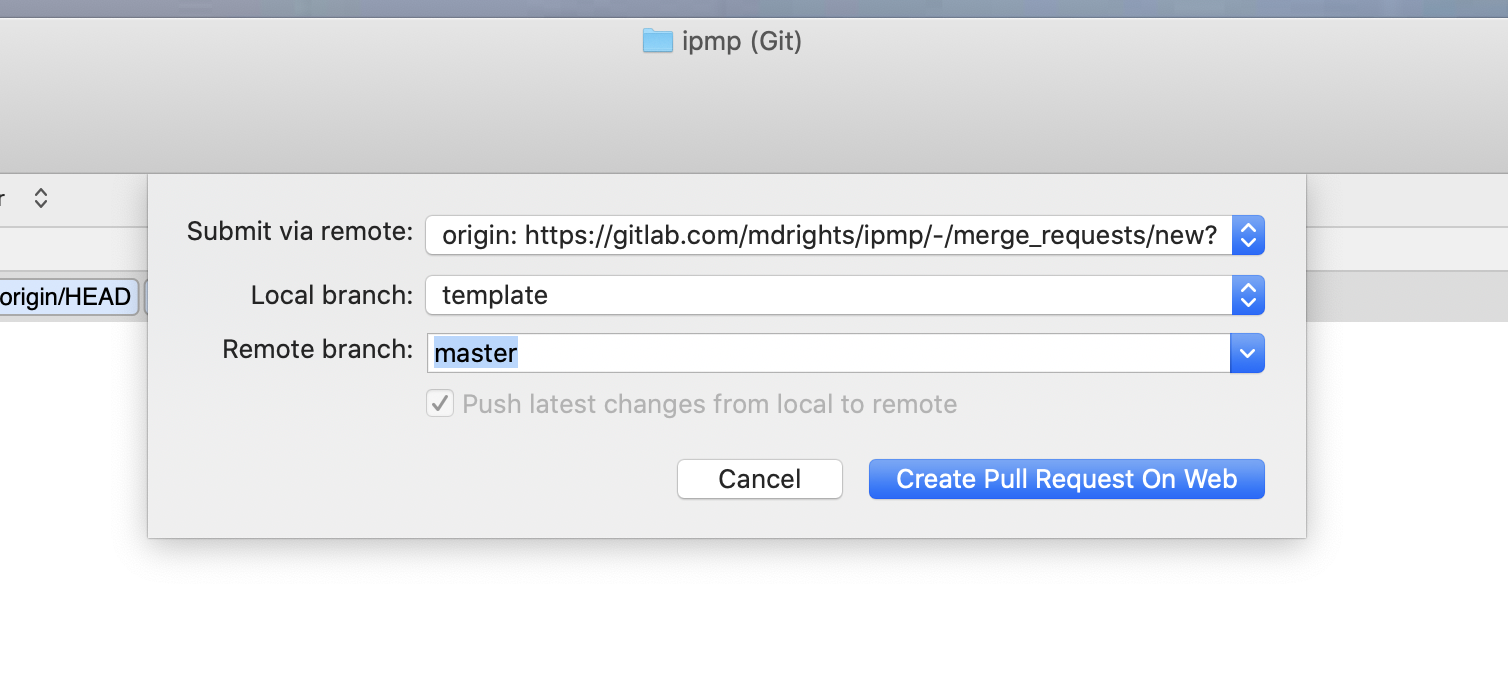
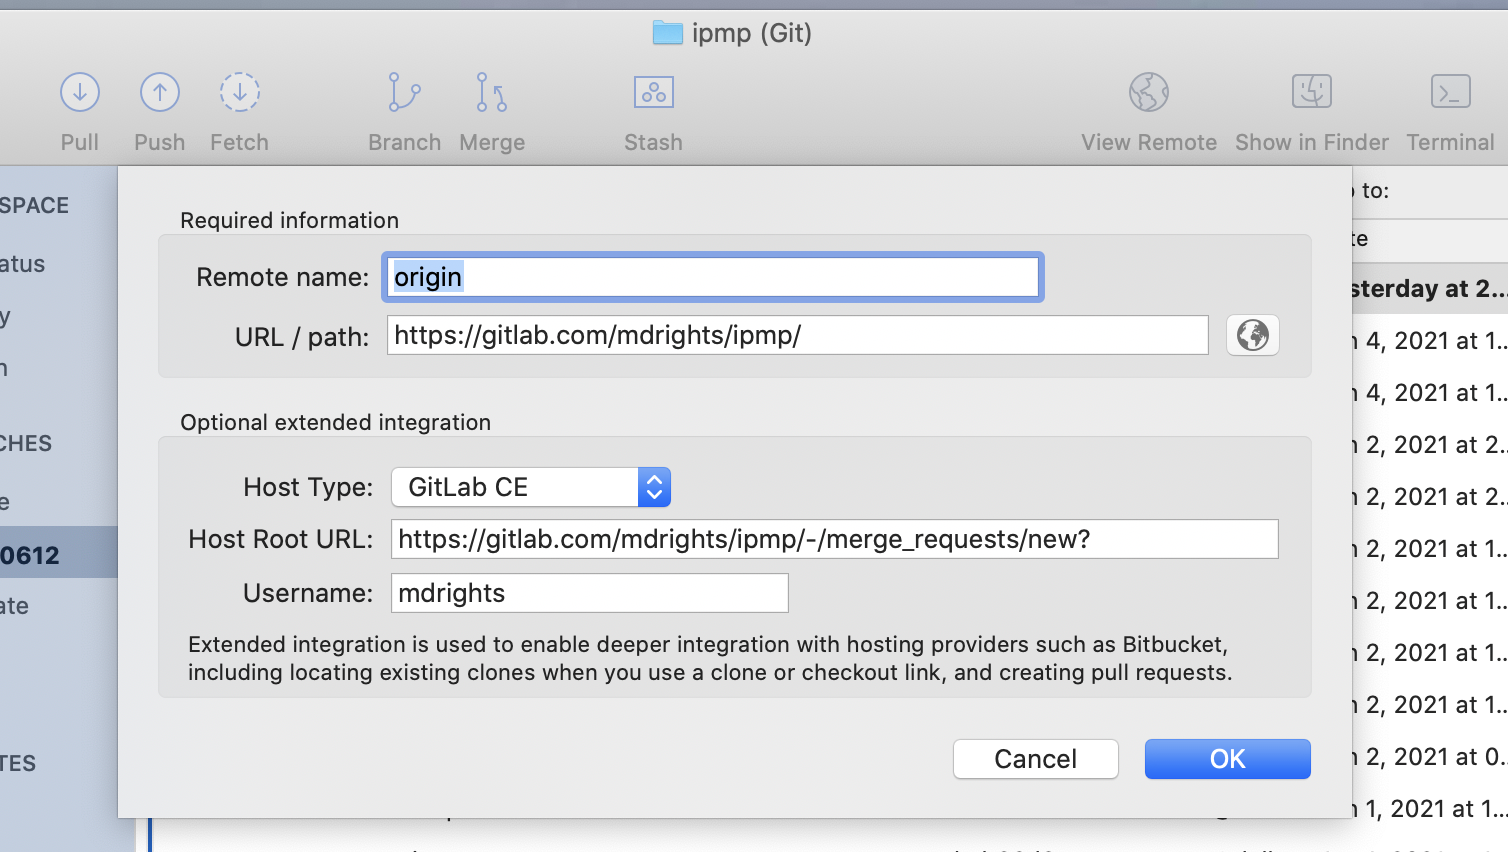
Add more pics: T教程和笔记/2021-06-12-how-to-raise-PR-sourceTree.md

diff --git a/T教程和笔记/2021-06-12-how-to-raise-PR-sourceTree.md b/T教程和笔记/2021-06-12-how-to-raise-PR-sourceTree.md
@@ -40,23 +40,24 @@ how-to-raise-PR-sourceTree.md
 
 (對於 Gitlab) 這時會彈出一個對話框，主要是說它還沒設置好，那就點擊【Settings】。 
 
-![]()
 
 在接下來的設置框裡，把 **remote** 地址修改成這樣：（自己替換相應的項目名和 repo 名）  
 
 `https://gitlab.com/PROJECT/REPO/-/merge_requests/new?`  
 
-![]()
+![](../img/sourceTree-create-pullRequest-setting.png)
 
 點擊保存。這一步只需要此時設置一次。  
 
-然後再 Create Pull Request 的時候就看到剛修改的 remote 地址了。在下方選擇你要提 PR 的分支（一般都是主分支啦，因為你要把你的內容合併到現有的主內容裡面去嘛）。  
+然後再 Create Pull Request 的時候就看到剛修改的 remote 地址了。每次在這裡提 PR 的時候這裡的配置都保持不動即可（即 本地分支 和 remote 分支都是：你新建的那個分支（注意不要填到 master 等分支去咯 XD）：
 
-![](../img/sourceTree-create-pullRequest-setting.png)
+![](../img/sourceTree-create-pullRequest-open.png)
 
 這時，就會彈出瀏覽器，把你帶到 Gitlab.com 的新 PR/MR 頁面，填入相應的信息（比如簡述一下你的新增/修改內容啦，理由啦），點擊提交就可以啦～！
 
 當然在這頁面你還可以選擇通知誰來審批，可以慢慢探索。
+
+![](../img/Gitlab-New-MR.png)
 
 
 ## 批准審批
